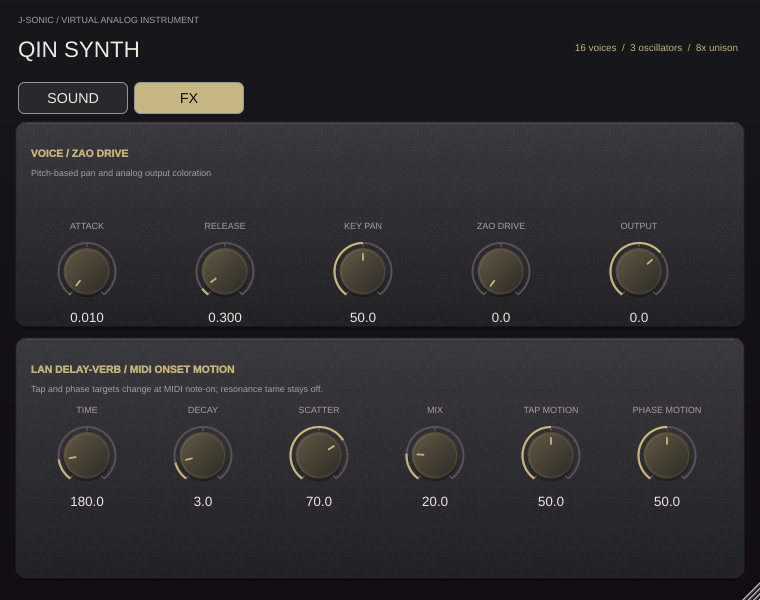
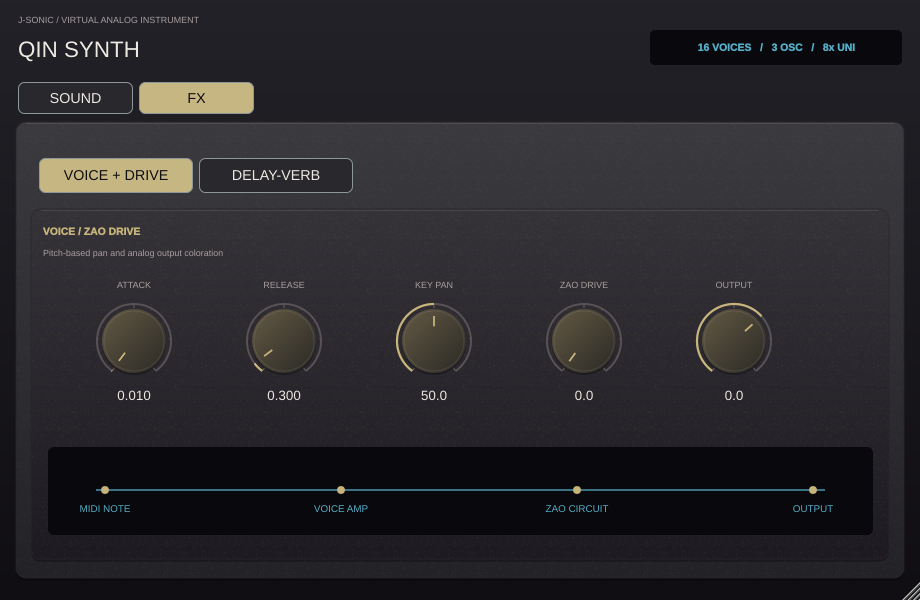
Refine Qin Synth panels from Spire UI reference

diff --git a/projects/QinSynth/Source/PluginEditor.cpp b/projects/QinSynth/Source/PluginEditor.cpp
@@ -74,6 +74,22 @@ QinSynthEditor::QinSynthEditor(QinSynthProcessor& synth) : AudioProcessorEditor(
         tab.onClick=[this,i]{showOscillator(int(i));};
         addAndMakeVisible(tab);
     }
+    for(size_t i=0;i<fxTabs.size();++i)
+    {
+        auto& tab=fxTabs[i];
+        tab.setButtonText(i==0 ? "VOICE + DRIVE" : "DELAY-VERB");
+        tab.setName(i==0 ? "Voice and drive tab" : "Delay-verb tab");
+        tab.setTooltip(i==0 ? "Shows voice shaping, key panning, Zao Drive, and output."
+                            : "Shows Lan's delay-reverb and MIDI onset motion controls.");
+        tab.setClickingTogglesState(true);
+        tab.setRadioGroupId(3);
+        tab.setColour(juce::TextButton::buttonColourId,juce::Colour(0xff29272c));
+        tab.setColour(juce::TextButton::buttonOnColourId,accent);
+        tab.setColour(juce::TextButton::textColourOffId,stageStyle::foreground);
+        tab.setColour(juce::TextButton::textColourOnId,stageStyle::background);
+        tab.onClick=[this,i]{showFxSection(int(i));};
+        addAndMakeVisible(tab);
+    }
     for(size_t i=0;i<sliders.size();++i)
     {
         auto& slider=sliders[i]; auto& label=labels[i];
@@ -89,6 +105,7 @@ QinSynthEditor::QinSynthEditor(QinSynthProcessor& synth) : AudioProcessorEditor(
         addAndMakeVisible(slider); addAndMakeVisible(label);
         sliderAttachments[i]=std::make_unique<State::SliderAttachment>(synth.parameters,ids[i],slider);
         editorTooltips::setHint(slider,label,hints[i]);
+        if(i<12 && i%4==2) slider.onValueChange=[this]{repaint();};
     }
     for(size_t i=0;i<waves.size();++i)
     {
@@ -109,6 +126,7 @@ QinSynthEditor::QinSynthEditor(QinSynthProcessor& synth) : AudioProcessorEditor(
     }
     pageTabs[0].setToggleState(true,juce::dontSendNotification);
     oscillatorTabs[0].setToggleState(true,juce::dontSendNotification);
+    fxTabs[0].setToggleState(true,juce::dontSendNotification);
     updateVisibility();
     editorScaling::enable(*this,designWidth,designHeight);
     gpu.attach(*this);
@@ -129,6 +147,14 @@ void QinSynthEditor::showOscillator(int oscillator)
     updateVisibility();
     repaint();
 }
+void QinSynthEditor::showFxSection(int section)
+{
+    currentFxSection=juce::jlimit(0,1,section);
+    for(size_t i=0;i<fxTabs.size();++i)
+        fxTabs[i].setToggleState(int(i)==currentFxSection,juce::dontSendNotification);
+    updateVisibility();
+    repaint();
+}
 void QinSynthEditor::updateVisibility()
 {
     for(int osc=0;osc<3;++osc)
@@ -144,43 +170,48 @@ void QinSynthEditor::updateVisibility()
             labels[index].setVisible(visible);
         }
     }
+    for(auto& tab:fxTabs) tab.setVisible(currentPage==1);
     for(size_t index=12;index<sliders.size();++index)
     {
-        sliders[index].setVisible(currentPage==1);
-        labels[index].setVisible(currentPage==1);
+        const auto visible=currentPage==1 && ((index<17)==(currentFxSection==0));
+        sliders[index].setVisible(visible);
+        labels[index].setVisible(visible);
     }
 }
 void QinSynthEditor::resized()
 {
     titleHint.setBounds(18,30,360,38);
-    pageTabs[0].setBounds(18,82,110,32);
-    pageTabs[1].setBounds(134,82,110,32);
-    for(int osc=0;osc<3;++osc) oscillatorTabs[size_t(osc)].setBounds(30,194+osc*54,124,42);
+    pageTabs[0].setBounds(18,82,115,32);
+    pageTabs[1].setBounds(139,82,115,32);
+    for(int osc=0;osc<3;++osc) oscillatorTabs[size_t(osc)].setBounds(39+osc*112,158,106,35);
+    fxTabs[0].setBounds(39,158,154,35);
+    fxTabs[1].setBounds(199,158,154,35);
     for(int osc=0;osc<3;++osc)
     {
-        waveLabels[size_t(osc)].setBounds(189,389,110,16);
-        waves[size_t(osc)].setBounds(194,416,102,27);
+        waveLabels[size_t(osc)].setBounds(43,422,120,16);
+        waves[size_t(osc)].setBounds(45,458,132,29);
         for(int control=0;control<4;++control)
         {
             const auto index=size_t(osc*4+control);
-            const auto x=303+control*103;
-            labels[index].setBounds(x,389,99,16);
-            sliders[index].setBounds(x,405,99,88);
+            constexpr std::array<int,4> positions {615,205,708,801};
+            const auto x=positions[size_t(control)];
+            labels[index].setBounds(x,422,90,16);
+            sliders[index].setBounds(x,438,90,98);
         }
     }
     for(int index=12;index<23;++index)
     {
         const auto effect=index>=17;
         const auto column=effect ? index-17 : index-12;
-        const auto x=33+column*(effect ? 116 : 138);
-        const auto y=effect ? 402 : 218;
-        labels[size_t(index)].setBounds(x,y,108,16);
-        sliders[size_t(index)].setBounds(x,y+17,108,91);
+        const auto x=effect ? 48+column*145 : 78+column*150;
+        labels[size_t(index)].setBounds(x,276,112,17);
+        sliders[size_t(index)].setBounds(x,296,112,108);
     }
     const auto scale=editorScaling::transform(*this,designWidth,designHeight);
     titleHint.setTransform(scale);
     for(auto& tab:pageTabs) tab.setTransform(scale);
     for(auto& tab:oscillatorTabs) tab.setTransform(scale);
+    for(auto& tab:fxTabs) tab.setTransform(scale);
     for(auto& slider:sliders) slider.setTransform(scale);
     for(auto& label:labels) label.setTransform(scale);
     for(auto& wave:waves) wave.setTransform(scale);
@@ -188,36 +219,40 @@ void QinSynthEditor::resized()
 }
 void QinSynthEditor::paint(juce::Graphics& graphics)
 {
+    const auto cyan=juce::Colour(0xff55aec7);
     graphics.fillAll(stageStyle::background);
     graphics.saveState();
     graphics.addTransform(editorScaling::transform(*this,designWidth,designHeight));
-    graphics.setGradientFill(juce::ColourGradient(juce::Colour(0xff17171c),0,0,
+    graphics.setGradientFill(juce::ColourGradient(juce::Colour(0xff222228),0,0,
         stageStyle::background,0,designHeight,false));
     graphics.fillRect(0,0,designWidth,designHeight);
     graphics.setColour(stageStyle::secondary); graphics.setFont(juce::FontOptions(10.f));
     graphics.drawText("J-SONIC / VIRTUAL ANALOG INSTRUMENT",18,12,500,16,juce::Justification::centredLeft);
     graphics.setColour(stageStyle::foreground); graphics.setFont(juce::FontOptions(25.f));
     graphics.drawText("QIN SYNTH",18,30,360,38,juce::Justification::centredLeft);
-    graphics.setColour(accent); graphics.setFont(juce::FontOptions(11.f));
-    graphics.drawText("16 voices  /  3 oscillators  /  8x unison",440,38,298,20,juce::Justification::centredRight);
+    graphics.setColour(stageStyle::inset);
+    graphics.fillRoundedRectangle(juce::Rectangle<float>(650.f,30.f,252.f,35.f),5.f);
+    graphics.setColour(cyan); graphics.setFont(juce::FontOptions(12.f).withStyle("bold"));
+    graphics.drawText("16 VOICES   /   3 OSC   /   8x UNI",661,36,231,23,juce::Justification::centred);
     if(currentPage==0)
     {
-        stageStyle::drawPanel(graphics,{16.f,122.f,728.f,456.f},juce::Colour(0xff27262b));
-        stageStyle::drawPanel(graphics,{28.f,150.f,140.f,402.f},juce::Colour(0xff201f24));
-        stageStyle::drawPanel(graphics,{180.f,150.f,550.f,402.f},juce::Colour(0xff222126));
+        stageStyle::drawPanel(graphics,{16.f,122.f,568.f,456.f},juce::Colour(0xff27272c));
+        stageStyle::drawPanel(graphics,{592.f,122.f,312.f,456.f},juce::Colour(0xff27272c));
         graphics.setColour(accent); graphics.setFont(juce::FontOptions(12.f).withStyle("bold"));
-        graphics.drawText("OSCILLATORS",41,160,110,20,juce::Justification::centredLeft);
-        graphics.drawText("OSCILLATOR "+juce::String(currentOscillator+1),194,163,260,20,juce::Justification::centredLeft);
+        graphics.drawText("OSCILLATOR "+juce::String(currentOscillator+1),37,132,260,20,juce::Justification::centredLeft);
+        graphics.drawText("UNISON / MIX",608,134,260,20,juce::Justification::centredLeft);
         graphics.setColour(stageStyle::secondary); graphics.setFont(juce::FontOptions(10.f));
-        graphics.drawText("VIRTUAL ANALOG / BAND-LIMITED",194,183,300,17,juce::Justification::centredLeft);
-        graphics.drawText("Select an oscillator at left to edit its waveform and unison voices.",194,514,510,20,juce::Justification::centredLeft);
+        graphics.drawText("WAVEFORM",39,199,132,16,juce::Justification::centredLeft);
+        graphics.drawText("STACK SPREAD",610,199,176,16,juce::Justification::centredLeft);
+        graphics.drawText("OSCILLATOR SHAPE",39,401,245,17,juce::Justification::centredLeft);
+        graphics.drawText("Each tab retains its own waveform and unison settings.",39,539,500,19,juce::Justification::centredLeft);
         graphics.setColour(stageStyle::grid);
-        graphics.fillRoundedRectangle(juce::Rectangle<float>(193.f,211.f,524.f,157.f),9.f);
+        graphics.fillRoundedRectangle(juce::Rectangle<float>(34.f,218.f,532.f,180.f),8.f);
         graphics.setColour(stageStyle::inset);
-        graphics.fillRoundedRectangle(juce::Rectangle<float>(197.f,215.f,516.f,149.f),7.f);
-        graphics.setColour(accent.withAlpha(.18f));
-        for(int line=1;line<4;++line)
-            graphics.drawHorizontalLine(215+line*37,197.f,713.f);
+        graphics.fillRoundedRectangle(juce::Rectangle<float>(38.f,222.f,524.f,172.f),6.f);
+        graphics.setColour(cyan.withAlpha(.18f));
+        for(int line=1;line<4;++line) graphics.drawHorizontalLine(222+line*43,38.f,562.f);
+        for(int line=1;line<8;++line) graphics.drawVerticalLine(38+line*65,222.f,394.f);
         const auto wave=waves[size_t(currentOscillator)].getSelectedId();
         juce::Path waveform;
         for(int point=0;point<=520;++point)
@@ -225,22 +260,71 @@ void QinSynthEditor::paint(juce::Graphics& graphics)
             const auto cycle=std::fmod(point/145.f,1.f);
             const auto shape=wave==2 ? (cycle<.5f ? 1.f : -1.f)
                             : wave==3 ? (1.f-4.f*std::abs(cycle-.5f)) : (2.f*cycle-1.f);
-            const auto x=197.f+point, y=290.f-55.f*shape;
+            const auto x=38.f+point, y=308.f-63.f*shape;
             if(point==0) waveform.startNewSubPath(x,y); else waveform.lineTo(x,y);
         }
-        graphics.setColour(accent.withAlpha(.2f)); graphics.strokePath(waveform,juce::PathStrokeType(5.f));
-        graphics.setColour(accent); graphics.strokePath(waveform,juce::PathStrokeType(1.5f));
+        graphics.setColour(cyan.withAlpha(.23f)); graphics.strokePath(waveform,juce::PathStrokeType(5.f));
+        graphics.setColour(cyan); graphics.strokePath(waveform,juce::PathStrokeType(1.7f));
+        graphics.setColour(stageStyle::inset);
+        graphics.fillRoundedRectangle(juce::Rectangle<float>(608.f,220.f,280.f,168.f),7.f);
+        const auto copies=juce::jlimit(1,8,juce::roundToInt(sliders[size_t(currentOscillator*4+2)].getValue()));
+        for(int copy=0;copy<8;++copy)
+        {
+            const auto active=copy<copies;
+            const auto x=627.f+copy*34.f;
+            const auto height=active ? 48.f+15.f*float(copy%3) : 22.f;
+            graphics.setColour(active ? cyan.withAlpha(.18f) : stageStyle::grid);
+            graphics.fillRoundedRectangle(juce::Rectangle<float>(x,352.f-height,21.f,height),3.f);
+            graphics.setColour(active ? cyan : stageStyle::secondary.withAlpha(.3f));
+            graphics.drawHorizontalLine(int(351.f-height),x,x+21.f);
+        }
+        graphics.setColour(cyan); graphics.setFont(juce::FontOptions(12.f).withStyle("bold"));
+        graphics.drawText(juce::String(copies)+" VOICE"+(copies==1 ? "" : "S"),623,233,245,22,juce::Justification::centred);
+        graphics.setColour(stageStyle::secondary); graphics.setFont(juce::FontOptions(10.f));
+        graphics.drawText("Per-oscillator level, count, and detune",608,539,277,18,juce::Justification::centredLeft);
     }
     else
     {
-        stageStyle::drawPanel(graphics,{16.f,122.f,728.f,204.f},juce::Colour(0xff27262b));
-        stageStyle::drawPanel(graphics,{16.f,338.f,728.f,240.f},juce::Colour(0xff27262b));
+        stageStyle::drawPanel(graphics,{16.f,122.f,888.f,456.f},juce::Colour(0xff27272c));
+        stageStyle::drawPanel(graphics,{31.f,209.f,858.f,350.f},juce::Colour(0xff211f25));
         graphics.setColour(accent); graphics.setFont(juce::FontOptions(12.f).withStyle("bold"));
-        graphics.drawText("VOICE / ZAO DRIVE",31,143,320,20,juce::Justification::centredLeft);
-        graphics.drawText("LAN DELAY-VERB / MIDI ONSET MOTION",31,359,470,20,juce::Justification::centredLeft);
+        graphics.drawText(currentFxSection==0 ? "VOICE / ZAO DRIVE" : "LAN DELAY-VERB / MIDI ONSET MOTION",
+            43,220,560,22,juce::Justification::centredLeft);
         graphics.setColour(stageStyle::secondary); graphics.setFont(juce::FontOptions(10.f));
-        graphics.drawText("Pitch-based pan and analog output coloration",31,165,400,16,juce::Justification::centredLeft);
-        graphics.drawText("Tap and phase targets change at MIDI note-on; resonance tame stays off.",31,381,540,16,juce::Justification::centredLeft);
+        graphics.drawText(currentFxSection==0 ? "Pitch-based pan and analog output coloration"
+                                           : "MIDI note-ons steer the tap and phase; resonance tame stays off.",
+            43,244,680,18,juce::Justification::centredLeft);
+        graphics.setColour(stageStyle::inset);
+        graphics.fillRoundedRectangle(juce::Rectangle<float>(48.f,447.f,825.f,88.f),6.f);
+        if(currentFxSection==0)
+        {
+            graphics.setColour(cyan.withAlpha(.65f));
+            graphics.drawLine(96.f,490.f,825.f,490.f,2.f);
+            constexpr std::array<const char*,4> stages {"MIDI NOTE","VOICE AMP","ZAO CIRCUIT","OUTPUT"};
+            for(size_t stage=0;stage<stages.size();++stage)
+            {
+                const auto x=105.f+stage*236.f;
+                graphics.setColour(accent); graphics.fillEllipse(x-4.f,486.f,8.f,8.f);
+                graphics.setColour(cyan); graphics.setFont(juce::FontOptions(11.f));
+                graphics.drawText(stages[stage],x-64.f,500,128,18,juce::Justification::centred);
+            }
+        }
+        else
+        {
+            graphics.setColour(cyan.withAlpha(.65f));
+            graphics.drawLine(90.f,490.f,829.f,490.f,1.5f);
+            for(int tap=0;tap<8;++tap)
+            {
+                const auto x=116.f+tap*100.f;
+                const auto height=17.f+float((tap*5)%4)*10.f;
+                graphics.setColour(cyan.withAlpha(.3f));
+                graphics.fillRect(x,490.f-height,4.f,height);
+                graphics.setColour(accent);
+                graphics.fillEllipse(x-4.f,486.f,12.f,12.f);
+            }
+            graphics.setColour(cyan); graphics.setFont(juce::FontOptions(10.f));
+            graphics.drawText("EIGHT MOVING FEEDBACK TAPS",600,505,245,17,juce::Justification::centredRight);
+        }
     }
     graphics.restoreState();
 }

diff --git a/projects/QinSynth/Tests/ProcessorTests.cpp b/projects/QinSynth/Tests/ProcessorTests.cpp
@@ -16,10 +16,13 @@ struct QinSynthEditorTestAccess
 {
     static void oscillator(QinSynthEditor& editor,int index) { editor.showOscillator(index); }
     static void page(QinSynthEditor& editor,int index) { editor.showPage(index); }
+    static void fxSection(QinSynthEditor& editor,int index) { editor.showFxSection(index); }
     static bool oscillatorVisible(const QinSynthEditor& editor,int index)
     { return editor.waves[size_t(index)].isVisible() && editor.sliders[size_t(index*4)].isVisible(); }
-    static bool fxVisible(const QinSynthEditor& editor)
-    { return editor.sliders[12].isVisible() && editor.sliders[22].isVisible(); }
+    static bool voiceFxVisible(const QinSynthEditor& editor)
+    { return editor.sliders[12].isVisible() && editor.sliders[16].isVisible(); }
+    static bool delayFxVisible(const QinSynthEditor& editor)
+    { return editor.sliders[17].isVisible() && editor.sliders[22].isVisible(); }
 };
 static void set(QinSynthProcessor& processor,const char* id,float value)
 {
@@ -124,7 +127,7 @@ int main(int argc,char** argv)
             QinSynthEditor editor(preview);
             if(!QinSynthEditorTestAccess::oscillatorVisible(editor,0)
                || QinSynthEditorTestAccess::oscillatorVisible(editor,1)
-               || QinSynthEditorTestAccess::fxVisible(editor))
+               || QinSynthEditorTestAccess::voiceFxVisible(editor))
                 throw std::runtime_error("Sound page must show only the selected oscillator");
             QinSynthEditorTestAccess::oscillator(editor,2);
             if(!QinSynthEditorTestAccess::oscillatorVisible(editor,2)
@@ -143,10 +146,16 @@ int main(int argc,char** argv)
             };
             if(argc>1) save(argv[1]);
             QinSynthEditorTestAccess::page(editor,1);
-            if(!QinSynthEditorTestAccess::fxVisible(editor)
+            if(!QinSynthEditorTestAccess::voiceFxVisible(editor)
+               || QinSynthEditorTestAccess::delayFxVisible(editor)
                || QinSynthEditorTestAccess::oscillatorVisible(editor,0))
-                throw std::runtime_error("FX page must show voice and delay-verb without oscillator controls");
+                throw std::runtime_error("FX page must open on voice and drive controls");
             if(argc>2) save(argv[2]);
+            QinSynthEditorTestAccess::fxSection(editor,1);
+            if(!QinSynthEditorTestAccess::delayFxVisible(editor)
+               || QinSynthEditorTestAccess::voiceFxVisible(editor))
+                throw std::runtime_error("Delay-verb tab must show only the reverb controls");
+            if(argc>3) save(argv[3]);
         }
         std::cout<<"Qin Synth processor checks passed\n";
         return 0;

diff --git a/projects/QinSynth/Source/PluginEditor.h b/projects/QinSynth/Source/PluginEditor.h
@@ -14,17 +14,19 @@ public:
     void resized() override;
 private:
     friend struct QinSynthEditorTestAccess;
-    static constexpr int designWidth=760, designHeight=600;
+    static constexpr int designWidth=920, designHeight=600;
     void showPage(int page);
     void showOscillator(int oscillator);
+    void showFxSection(int section);
     void updateVisibility();
-    int currentPage=0, currentOscillator=0;
+    int currentPage=0, currentOscillator=0, currentFxSection=0;
     StageLookAndFeel look;
     pluginGpu::Renderer gpu;
     juce::TooltipWindow tooltipWindow {this};
     editorTooltips::TitleHint titleHint {JucePlugin_VersionString};
     std::array<juce::TextButton,2> pageTabs;
     std::array<juce::TextButton,3> oscillatorTabs;
+    std::array<juce::TextButton,2> fxTabs;
     std::array<juce::Slider,23> sliders;
     std::array<juce::Label,23> labels;
     std::array<juce::ComboBox,3> waves;

diff --git a/projects/QinSynth/README.md b/projects/QinSynth/README.md
@@ -2,11 +2,13 @@
 
 Qin Synth is a stereo MIDI instrument with 16-note polyphony, three virtual-analog oscillators per note, and up to eight unison copies per oscillator. It is version 0.7.5 in the J-Sonic suite.
 
-![Qin Synth Sound page with left-hand oscillator tabs and a larger waveform editor](Previews/qin-synth.png)
+![Qin Synth Sound page with horizontal oscillator tabs, a large waveform display on the left, and a unison module on the right](Previews/qin-synth.png)
 
-![Qin Synth FX page with voice, Zao drive, and MIDI-steered Lan delay-reverb controls](Previews/qin-synth-fx.png)
+![Qin Synth FX page showing voice and Zao Drive controls](Previews/qin-synth-fx.png)
 
-The **Sound** tab puts oscillator selection on the left and expands the selected oscillator's waveform and controls on the right. The **FX** tab shows the Voice, Zao Drive, and Lan Delay-Verb sections. Every parameter remains available to host automation on either page.
+![Qin Synth FX page showing MIDI-steered Lan delay-reverb controls](Previews/qin-synth-delay.png)
+
+The **Sound** page places horizontal oscillator tabs above a large waveform module on the left and selected-oscillator unison controls on the right. The **FX** page has selectable Voice + Drive and Delay-Verb modules. This denser dark-panel layout draws on Spire's section hierarchy while retaining Qin's J-Sonic knobs and color scheme. Every parameter remains available to host automation on either page.
 
 Each oscillator has a band-limited saw, pulse, or triangle waveform, plus level, octave, unison count, and detune controls. Unison copies spread gently across stereo. Key Pan maps lower MIDI notes left and higher notes right, as in a piano-key recording. Attack and Release control the voice amplitude. New notes take a free voice first, then steal a released or oldest voice when all 16 are occupied. Sustain pedal (MIDI CC64), note-off, all-notes-off, and all-sound-off are supported.
 

diff --git a/README.md b/README.md
@@ -189,9 +189,9 @@ input, generated delta, and resulting spectra.
 
 ### Qin Synth
 
-![Qin Synth with three virtual-analog oscillator rows, key pan, Zao drive, and MIDI-steered Lan delay-reverb](projects/QinSynth/Previews/qin-synth.png)
+![Qin Synth Sound page with horizontal oscillator tabs, a waveform display, and unison controls](projects/QinSynth/Previews/qin-synth.png)
 
-Play up to 16 notes with three virtual-analog oscillators per note. The **Sound** page has left-hand oscillator tabs and a larger editor for each oscillator's saw, pulse, or triangle wave and eightfold unison. The **FX** page holds **Key Pan**, Zao's op-amp feedback drive, and Lan's delay-reverb; MIDI note-ons steer its tap and phase motion without running Lan's resonance tamer.
+Play up to 16 notes with three virtual-analog oscillators per note. The **Sound** page places horizontal oscillator tabs over a large waveform panel, with eightfold-unison controls beside it. The **FX** page switches between Voice + Drive and Delay-Verb modules. **Key Pan** spreads notes by pitch; MIDI note-ons steer Lan's tap and phase motion without running its resonance tamer.
 
 [Controls and signal path](projects/QinSynth/README.md).
 

diff --git a/projects/QinSynth/TOOLTIPS.md b/projects/QinSynth/TOOLTIPS.md
@@ -5,6 +5,8 @@
 | Plugin title | Developer: J-Sonic Team; Year: 2026; Version: 0.7.5 |
 | Sound tab | Shows the three oscillator tabs and their sound controls. |
 | FX tab | Shows the voice, drive, and delay-reverb controls. |
+| Voice + Drive tab | Shows voice shaping, key panning, Zao Drive, and output. |
+| Delay-Verb tab | Shows Lan's delay-reverb and MIDI onset motion controls. |
 | Osc 1 tab | Opens oscillator 1 in the Sound editor. |
 | Osc 2 tab | Opens oscillator 2 in the Sound editor. |
 | Osc 3 tab | Opens oscillator 3 in the Sound editor. |
